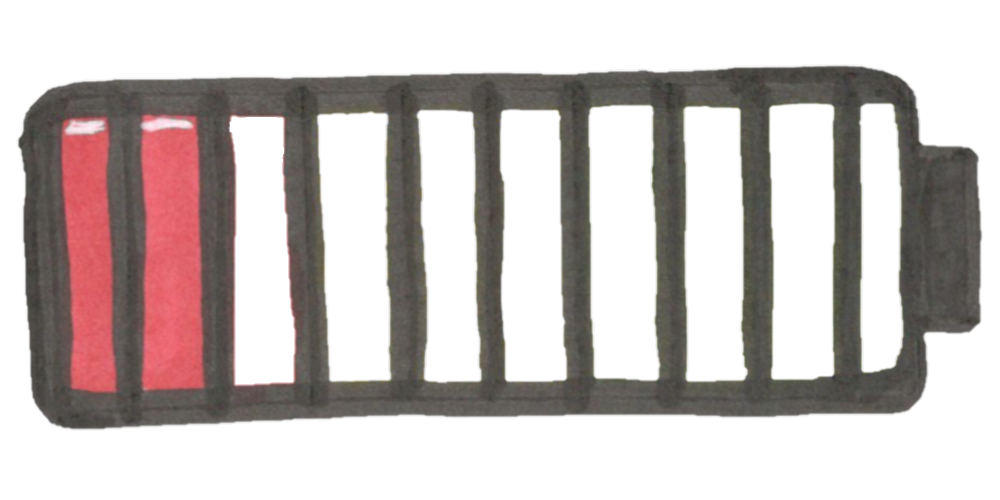
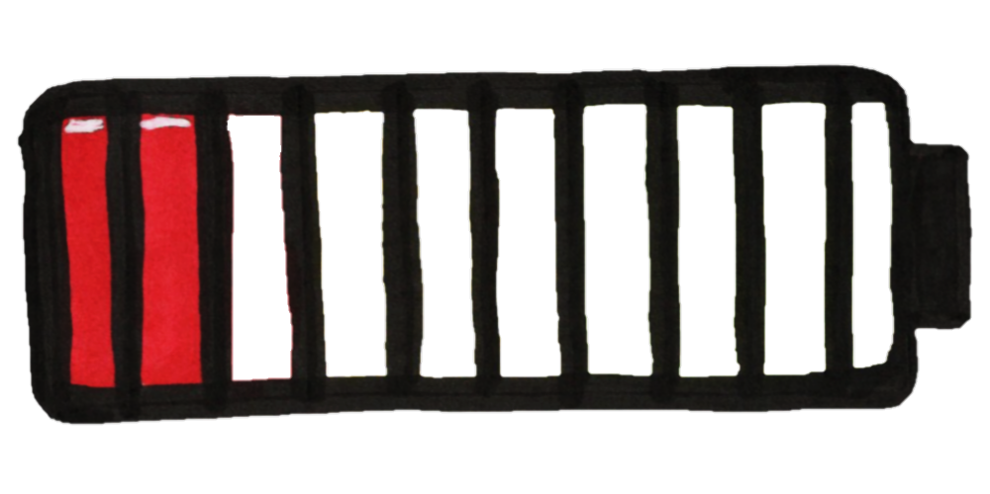
Fixed map glitch, colour-corrected images

diff --git a/captain_wifi.py b/captain_wifi.py
@@ -564,9 +564,10 @@ def reloadLevel():
     '''
     Call after changing level
     '''
-    global walls, bg, enemyList, objList, camXpos, camYpos
+    global walls, bg, enemyList, objList, camXpos, camYpos, maplength, mapheight
     captain.x = maps.startpoints[level][0]
     captain.y = maps.startpoints[level][1]
+    maplength, mapheight = maps.mapSizes[level] 
     walls = maps.loadWalls(level)
     bg = maps.loadBG(level)
     enemyList = maps.loadEnemies(level)
